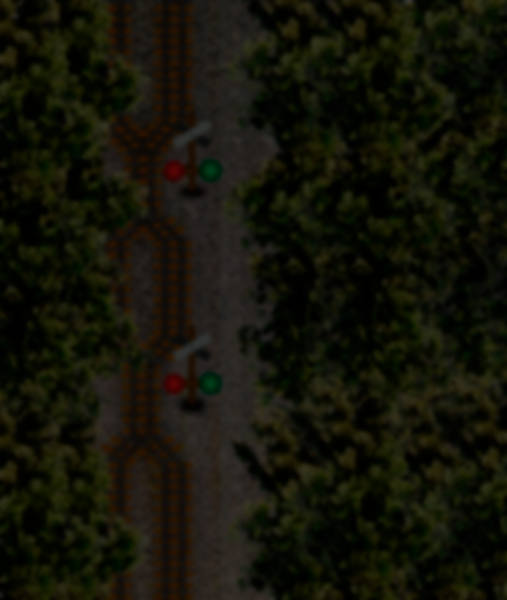
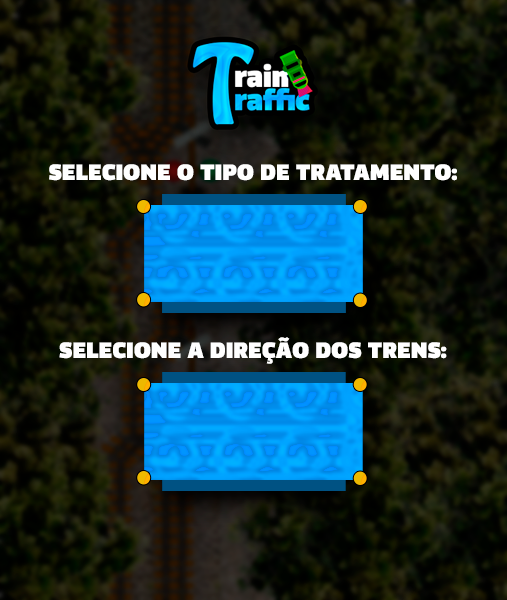
update

Changed region(s): [[0.0888, 0.27, 0.9172, 0.84], [0.355, 0.06, 0.6213, 0.24]]

diff --git a/controller/PlataformaController.java b/controller/PlataformaController.java
@@ -14,6 +14,7 @@ import java.util.ResourceBundle;
 import javafx.event.ActionEvent;
 import javafx.fxml.FXML;
 import javafx.fxml.Initializable;
+import javafx.scene.Group;
 import javafx.scene.control.RadioButton;
 import javafx.scene.control.Slider;
 import javafx.scene.control.ToggleGroup;
@@ -33,6 +34,9 @@ public class PlataformaController implements Initializable {
 
   @FXML
   private RadioButton radioBaixoBaixo;
+  
+  @FXML
+  private Group grupoMenu;
 
   @FXML
   private RadioButton radioBaixoCima;
@@ -111,19 +115,8 @@ public class PlataformaController implements Initializable {
     radioSolucaoPeterson.setToggleGroup(grupoRadiosButtonsTratamento);
     radioEstritaAlternancia.setToggleGroup(grupoRadiosButtonsTratamento);
     
-    getGrupoRadiosButtonsDirecao().selectedToggleProperty().addListener((observable,oldValue,newValue) -> {
-      if (newValue != null) {
-        ajustarPosicao();
-      }
-    });
-    
     grupoRadiosButtonsTratamento.selectedToggleProperty().addListener((observable,oldValue,newValue) -> {
-
     });
-
-    radioVariavelDeTravamento.setSelected(true);
-    getRadioCimaCima().setSelected(true);
-    ajustarPosicao();
 
     aceleradorAzul.valueProperty().addListener((observable, oldValue, newValue) -> {
       iniciarThreadTremAzul(newValue.doubleValue());
@@ -131,15 +124,20 @@ public class PlataformaController implements Initializable {
     
     aceleradorVerde.valueProperty().addListener((observable,oldValue,newValue) -> {
       iniciarThreadTremVerde(newValue.doubleValue());
-
     });
 
   } // fim da classe initialize
   
+  @FXML
+  void clicouIniciar(ActionEvent event) {
+    ajustarPosicao();
+    if (selecionouPosicao() && selecionouTratamentoDeColisao())
+      grupoMenu.setVisible(false);
+  }
   // iniciar a thread apenas se a velocidade foi alterada.
   public void iniciarThreadTremAzul (double velocidade) {
     
-    if (aceleradorAzul.getValue() != 0 && selecionouPosicao() && selecionouTratamentoDeColisao()) {
+    if (aceleradorAzul.getValue() != 0 ) {
       if (!tremAzulThread.isAlive()) {
         tremAzulThread.start();
       } 
@@ -149,7 +147,7 @@ public class PlataformaController implements Initializable {
         tremAzulThread.notify();
       }
     } 
-    else if(aceleradorAzul.getValue() == 0 && selecionouPosicao() && selecionouTratamentoDeColisao()) {
+    else if(aceleradorAzul.getValue() == 0 ) {
       synchronized (tremAzulThread) {
         tremAzulThread.setPausarThread(true);
       }
@@ -222,10 +220,7 @@ public class PlataformaController implements Initializable {
   ******************************************************************* */
   @FXML
   public void clicouReiniciar(ActionEvent event) {
-    getRadioCimaCima().setSelected(false);
-    getRadioCimaBaixo().setSelected(false);
-    getRadioBaixoBaixo().setSelected(false);
-    getRadioBaixoCima().setSelected(false);
+    grupoMenu.setVisible(true);
     
     if (!tremAzulThread.isAlive()) { 
       tremAzulThread.resetar();
